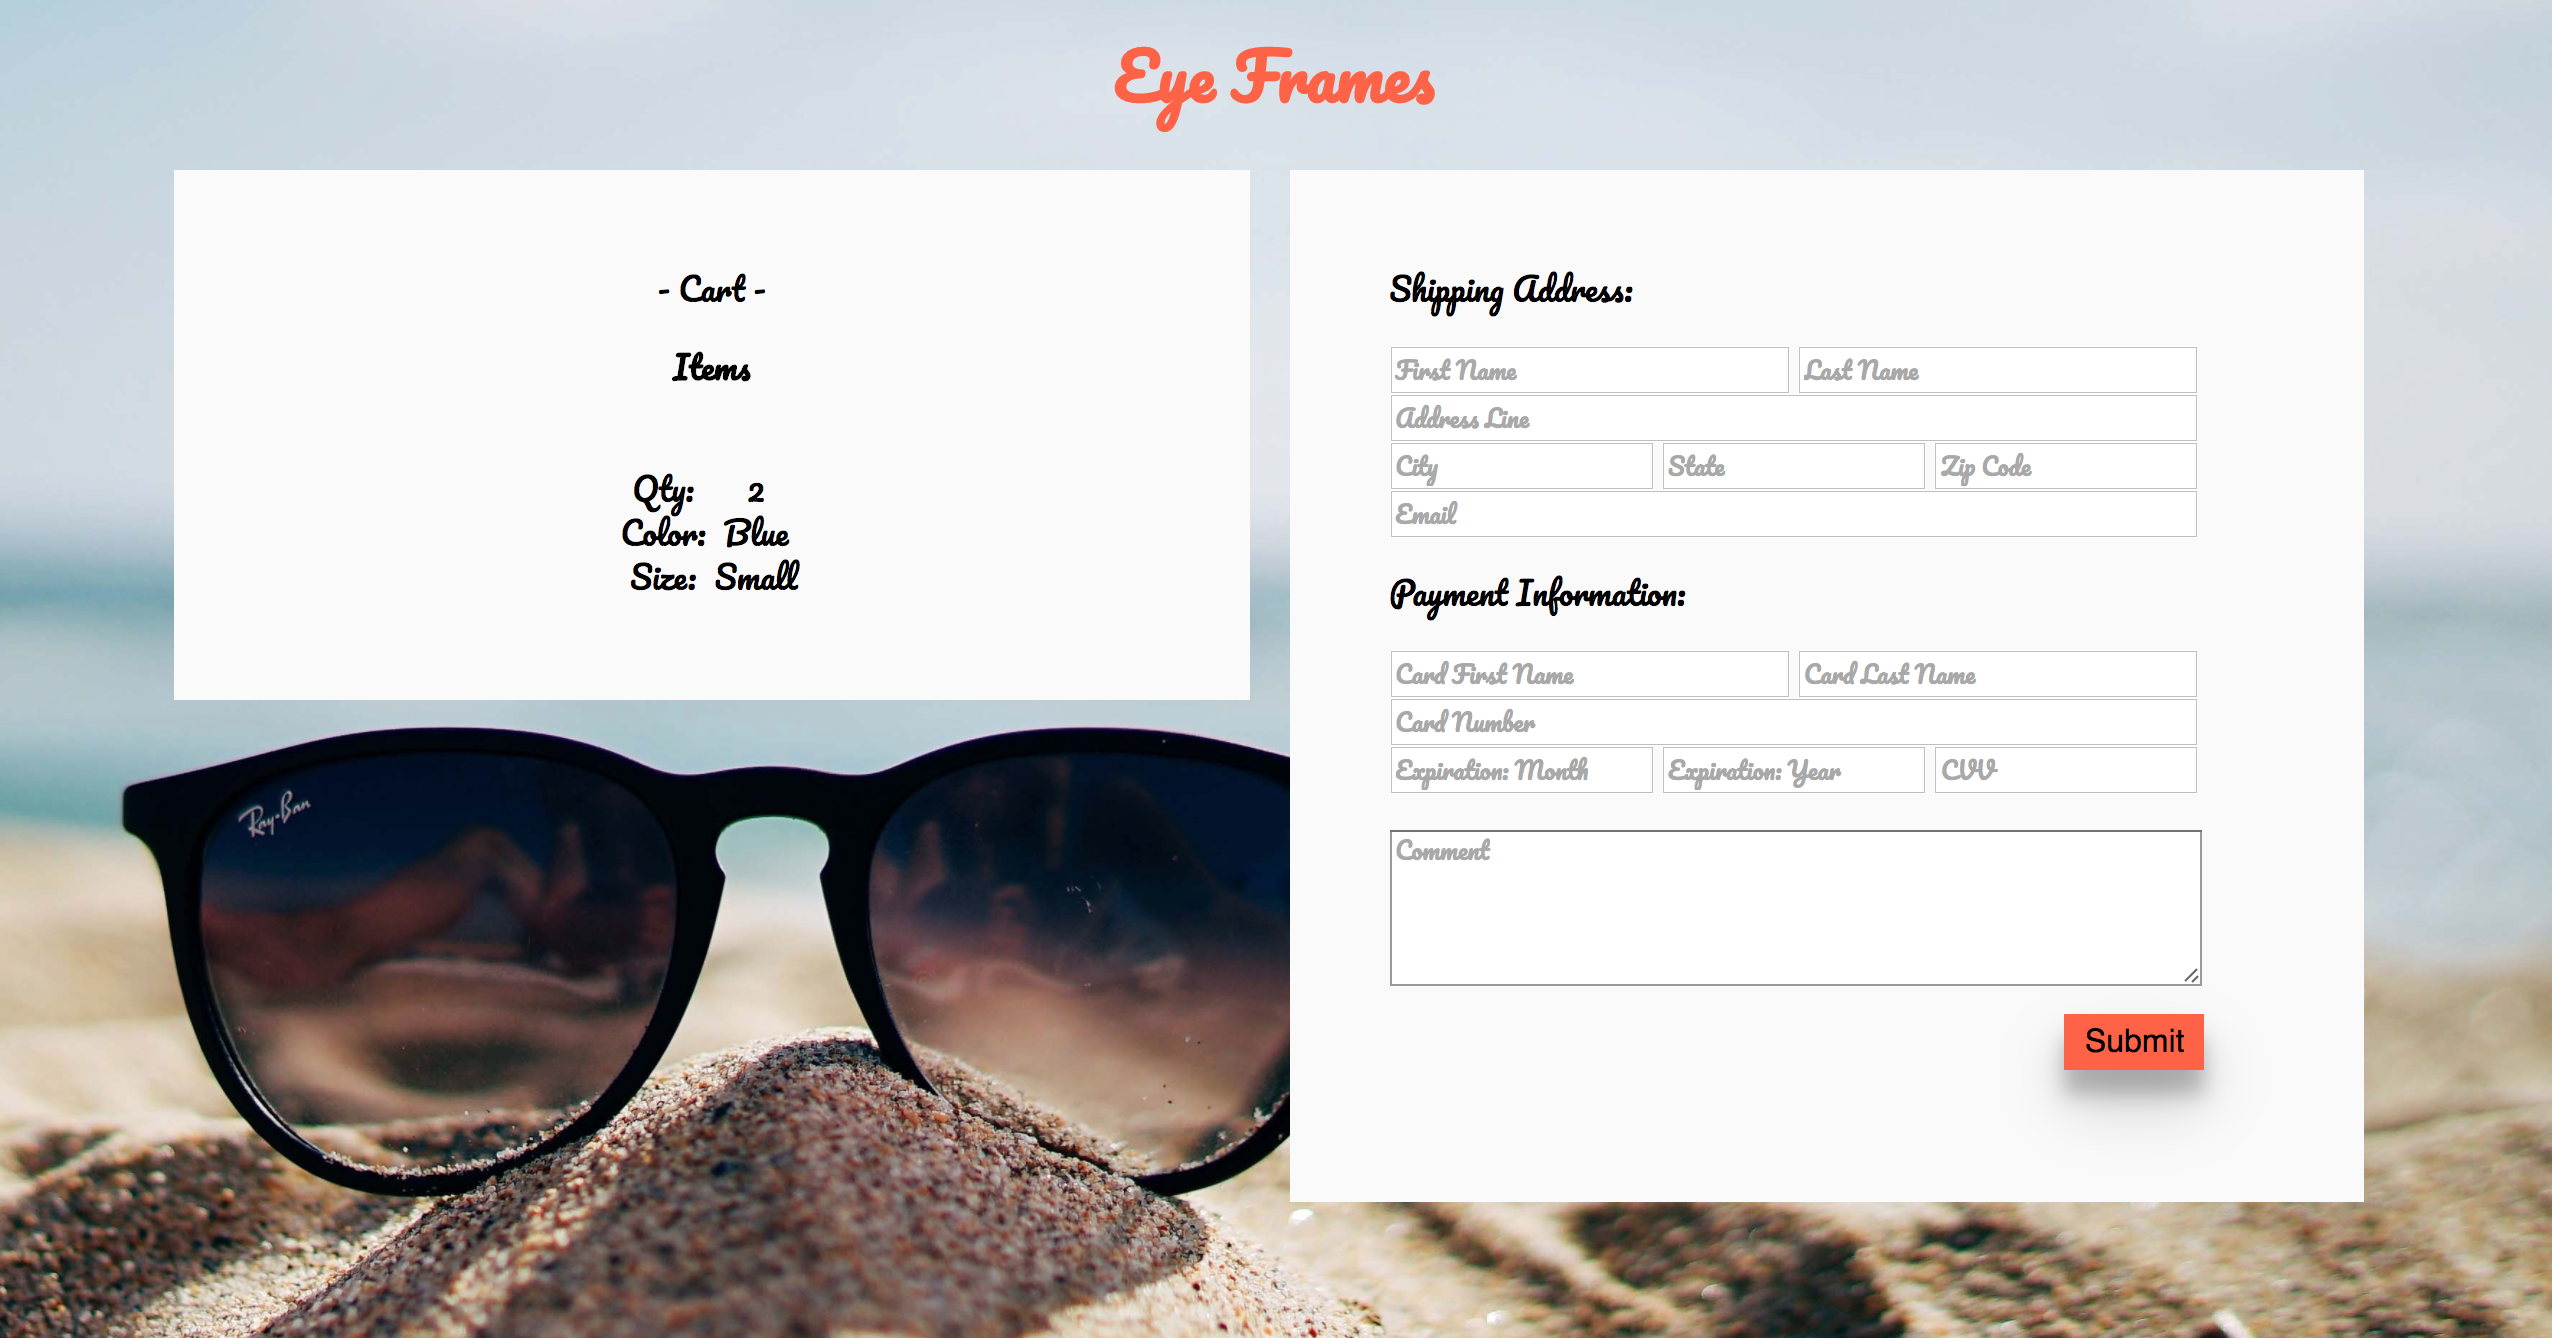
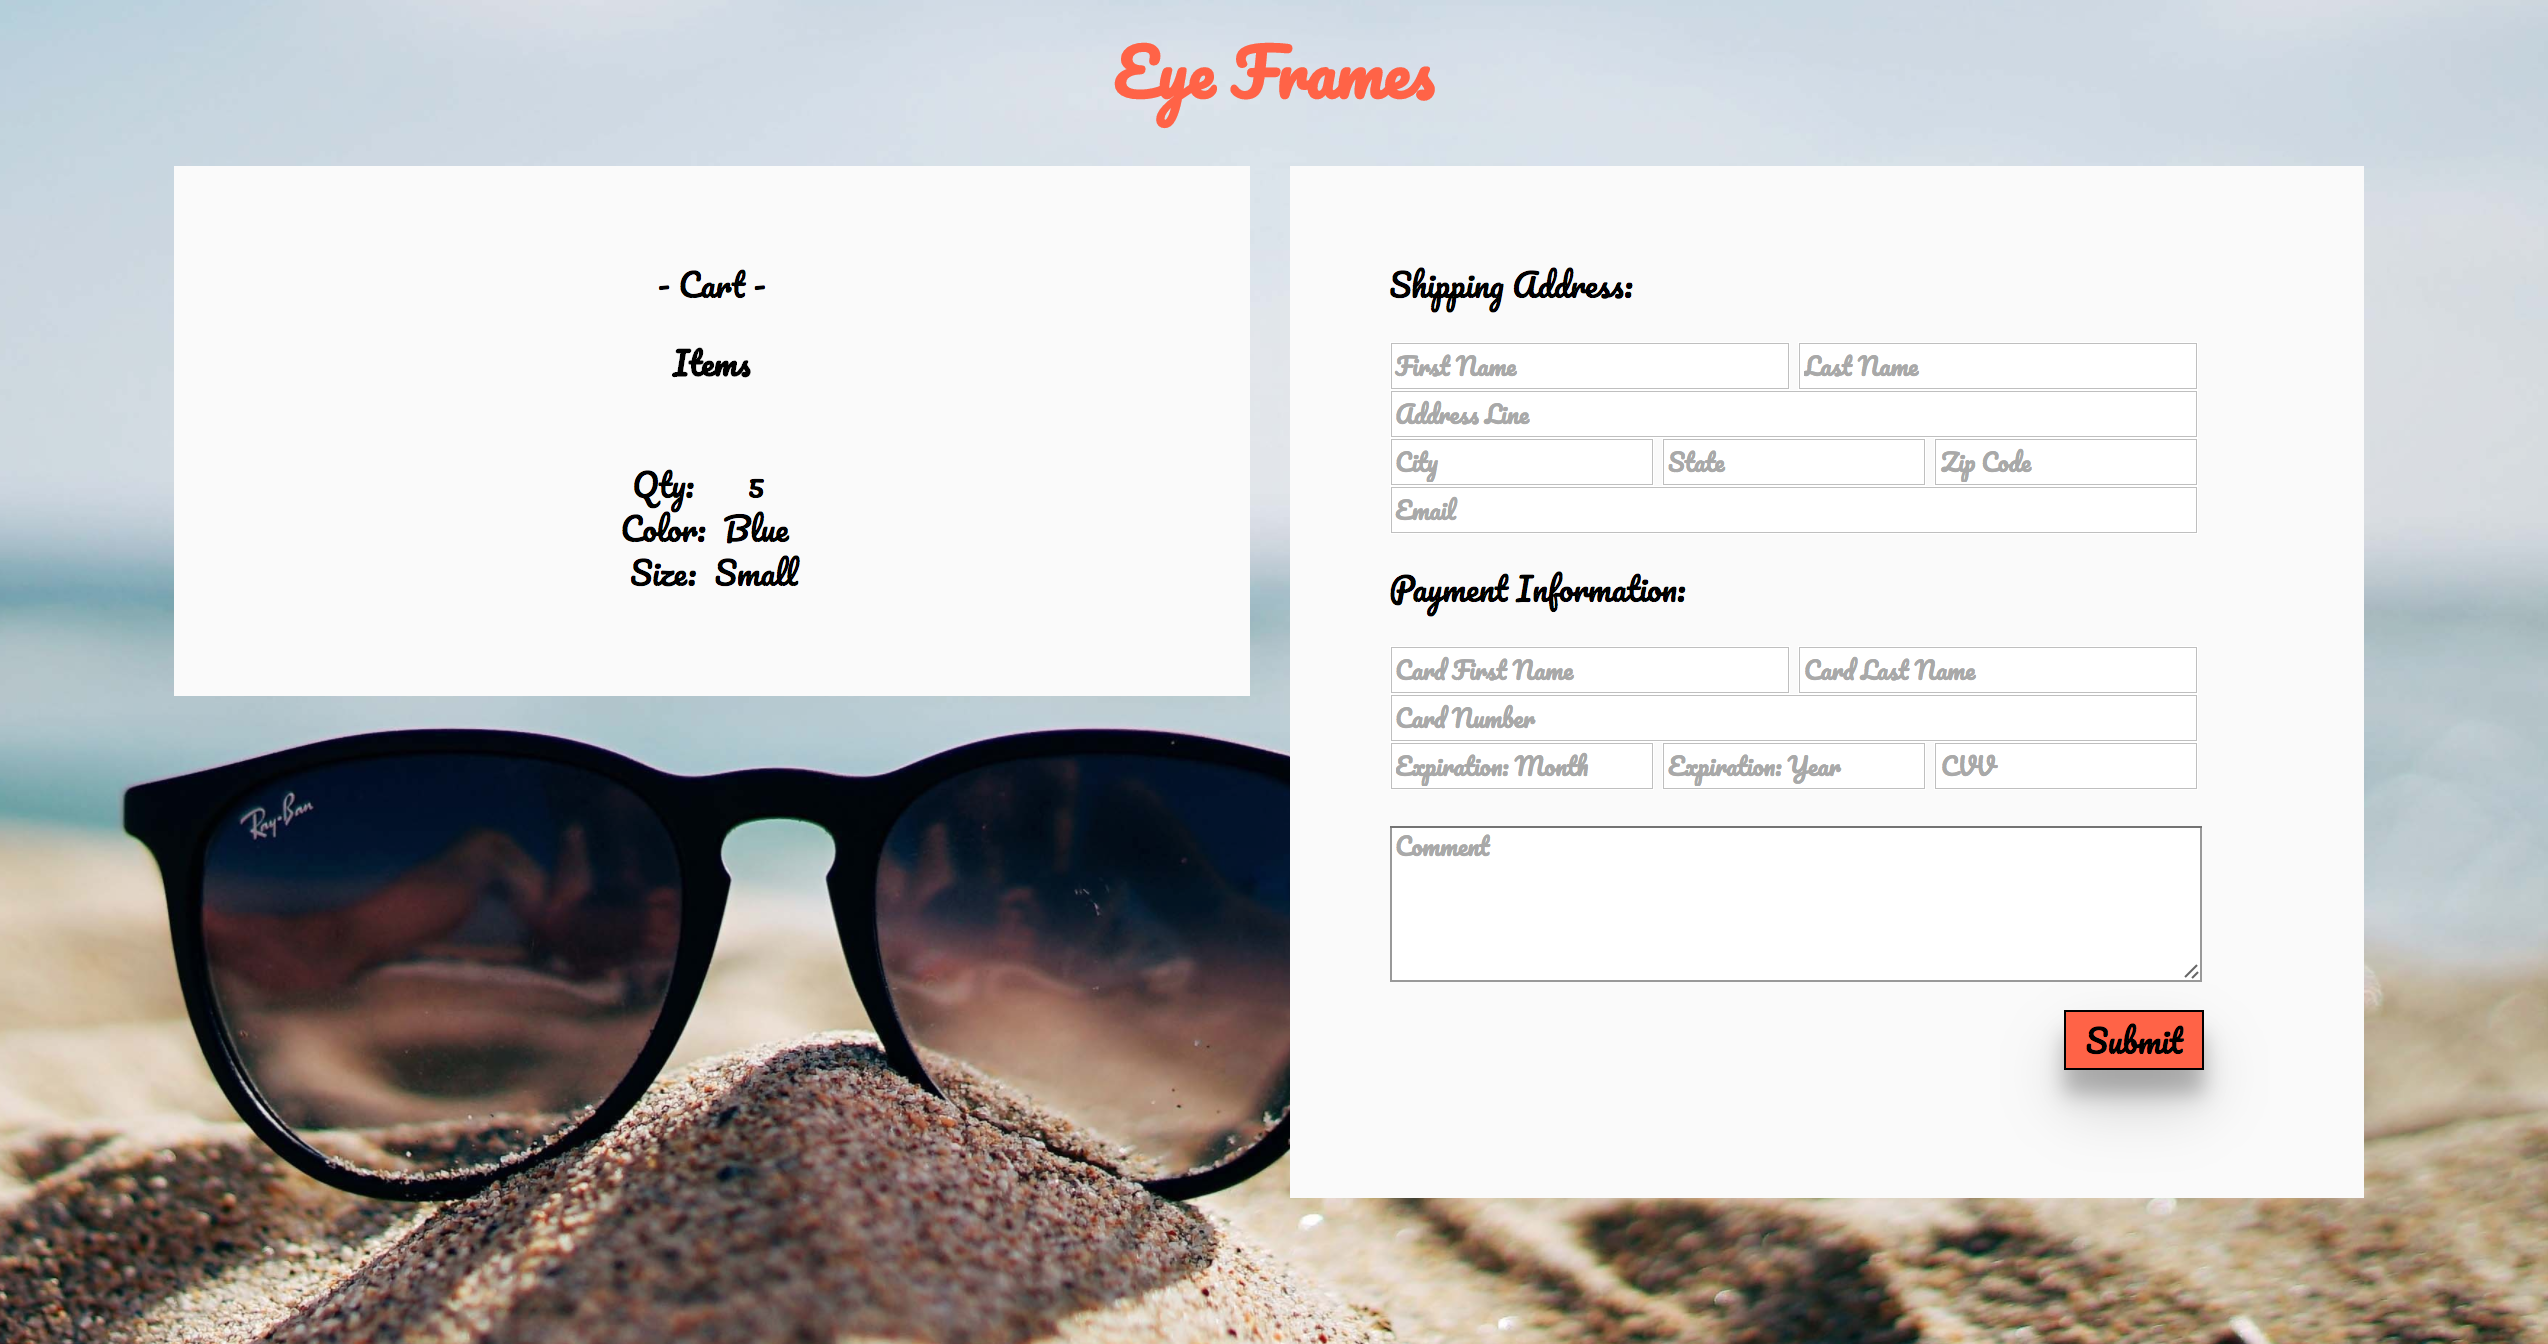
checkout.html quick revision

diff --git a/index.html b/index.html
@@ -78,18 +78,18 @@
                     <input name="Qty:" size=1 value="0"><br>
                     <h3>Frame Color:</h3><br>
                     <label>Blue: </label>
-                    <input type="radio" name="Color:" value="Blue"><br>
+                    <input type="radio" name="Color: " value="Blue"><br>
                     <label>Green: </label>
-                    <input type="radio" name="Color:" value="Green"><br>
+                    <input type="radio" name="Color: " value="Green"><br>
                     <label>Red: </label>
-                    <input type="radio" name="Color:" value="Red"><br>
+                    <input type="radio" name="Color: " value="Red"><br>
                   </div>
 
                   <div class="divider">
                     <select name="Size: ">
-                      <option name="Size: " value="Small" class="drop">Small Fit</option>
-                      <option name="Size: " value="Medium" class="drop">Medium Fit</option>
-                      <option name="Size: " value="Large" class="drop">Large Fit</option>
+                      <option name="Size:  " value="Small" class="drop">Small Fit</option>
+                      <option name="Size:  " value="Medium" class="drop">Medium Fit</option>
+                      <option name="Size:  " value="Large" class="drop">Large Fit</option>
                     </select>
                     <br>
 

diff --git a/css/style.css b/css/style.css
@@ -337,7 +337,7 @@ label {
 #parent {
   display: flex;
   flex-wrap: wrap;
-  padding: 20px 80px 70px 80px;
+  padding: 20px 80px 75px 80px;
  /* margin: 150px 80px 50px 80px;*/
 }
 
@@ -388,6 +388,8 @@ label {
     background-color: tomato;
     border: none;
     padding: 5px 10px;
+    font-family: 'Pacifico', cursive;
+    border: 1px solid black;
 }
 
 /*********Footer Start******/
